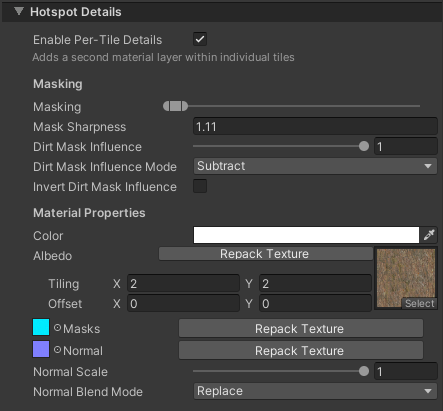
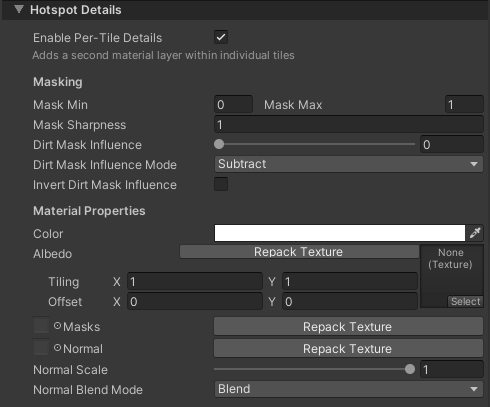
updated hotspotting docs to match the latest changes

diff --git a/src/pages/docs/orl-standard/hotspotting.md b/src/pages/docs/orl-standard/hotspotting.md
@@ -27,6 +27,9 @@ The part that currently takes the most time in hotspotting is the material setup
 
 - Hotspot Mask: The main mask which matches the UV layout of your source hotspot mesh
 - Hotspot Normal: The hotspot groove normal map adds grooves between different tiles of the hotspot texture.
+- Tiling X: Controls the hotspot mask/normal tiling in X
+- Tiling Y: Controls the hotspot mask/normal tiling in Y
+- Hotspot Rotation: Controls the hotspot mask/normal rotation
 
 Both of the above are included with the shader to be used together with the `Hotspot` mesh provided in the `Runtime/Assets` folder of the ORL Shaders package.
 
@@ -34,10 +37,13 @@ Both of the above are included with the shader to be used together with the `Hot
 If you're using Unity 2022 or newer - it is highly recommended to use Material Variants when setting up Hotspotting materials. That way you can define the base settings like the hotspot mask and normal on the parent material and lock them, using the variants to only change the texture set and other individual settings
 {% /callout %}
 
-## Dirt
+## Groove Detail
 
-- Mask: The main noise texture to be used for painting dirt on the surface
-- Edge Masking: Controls the spread of the dirt from the edges of the tiles
+- Dirt: The main noise texture to be used for painting dirt on the surface
+- Mask Min/Max: Controls the spread of the dirt from the edges of the tiles
+- Nudge: Shifts the dirt with precise control
+- Sharpness: Controls the sharpness of the dirt edge. Can be effective at creating a sharper edge wear effect
+- Dirt Mask Strength: Controls the influence dirt mask has over the edge mask
 - Color: Controls the color of the applied dirt
 - Color Blend Mode: Controls how the color is blended with base albedo
   - Blend: Simply blends from base albedo to dirt color
@@ -49,8 +55,13 @@ If you're using Unity 2022 or newer - it is highly recommended to use Material V
   - Add: **Smoothness Modifier** is added on top of the base smoothness
   - Multiply: The base smoothness is multiplied by the **Smoothness Modifier**
 - Smoothness Modifier: Adjusts the smoothness of the dirt
-- Groove AO: Controls the strength of Ambient Occlusion in the grooves between the tiles
-- AO Masking: Controls the spread of the AO from the grooves of the tiles
+
+### Groove AO
+
+- AO Strength: Controls the strength of Ambient Occlusion in the grooves between the tiles
+- Mask Min/Max: Controls the spread of the AO from the grooves of the tiles
+- Nudge: Shifts the AO with precise control
+- Sharpness: Controls the sharpness of the AO edge.
 
 ## Per-Tile Variance
 
@@ -70,7 +81,7 @@ Hotspotting details act as a second material layer to be applied inside each of 
 
 ### Masking
 
-- Masking: Controls the spread and edge sharpness of the overlaid details
+- Mask Min/Max: Controls the spread of the detail textures within the tiles
 - Mask Sharpness: Further adjusts the sharpness of the mask edge
 - Dirt Mask Influence: Controls how much the **Dirt Mask** influences the blending of the detail layer
 - Dirt Mask Influence Mode: Controls how does the **Dirt Mask** influence the blending of the detail layer
